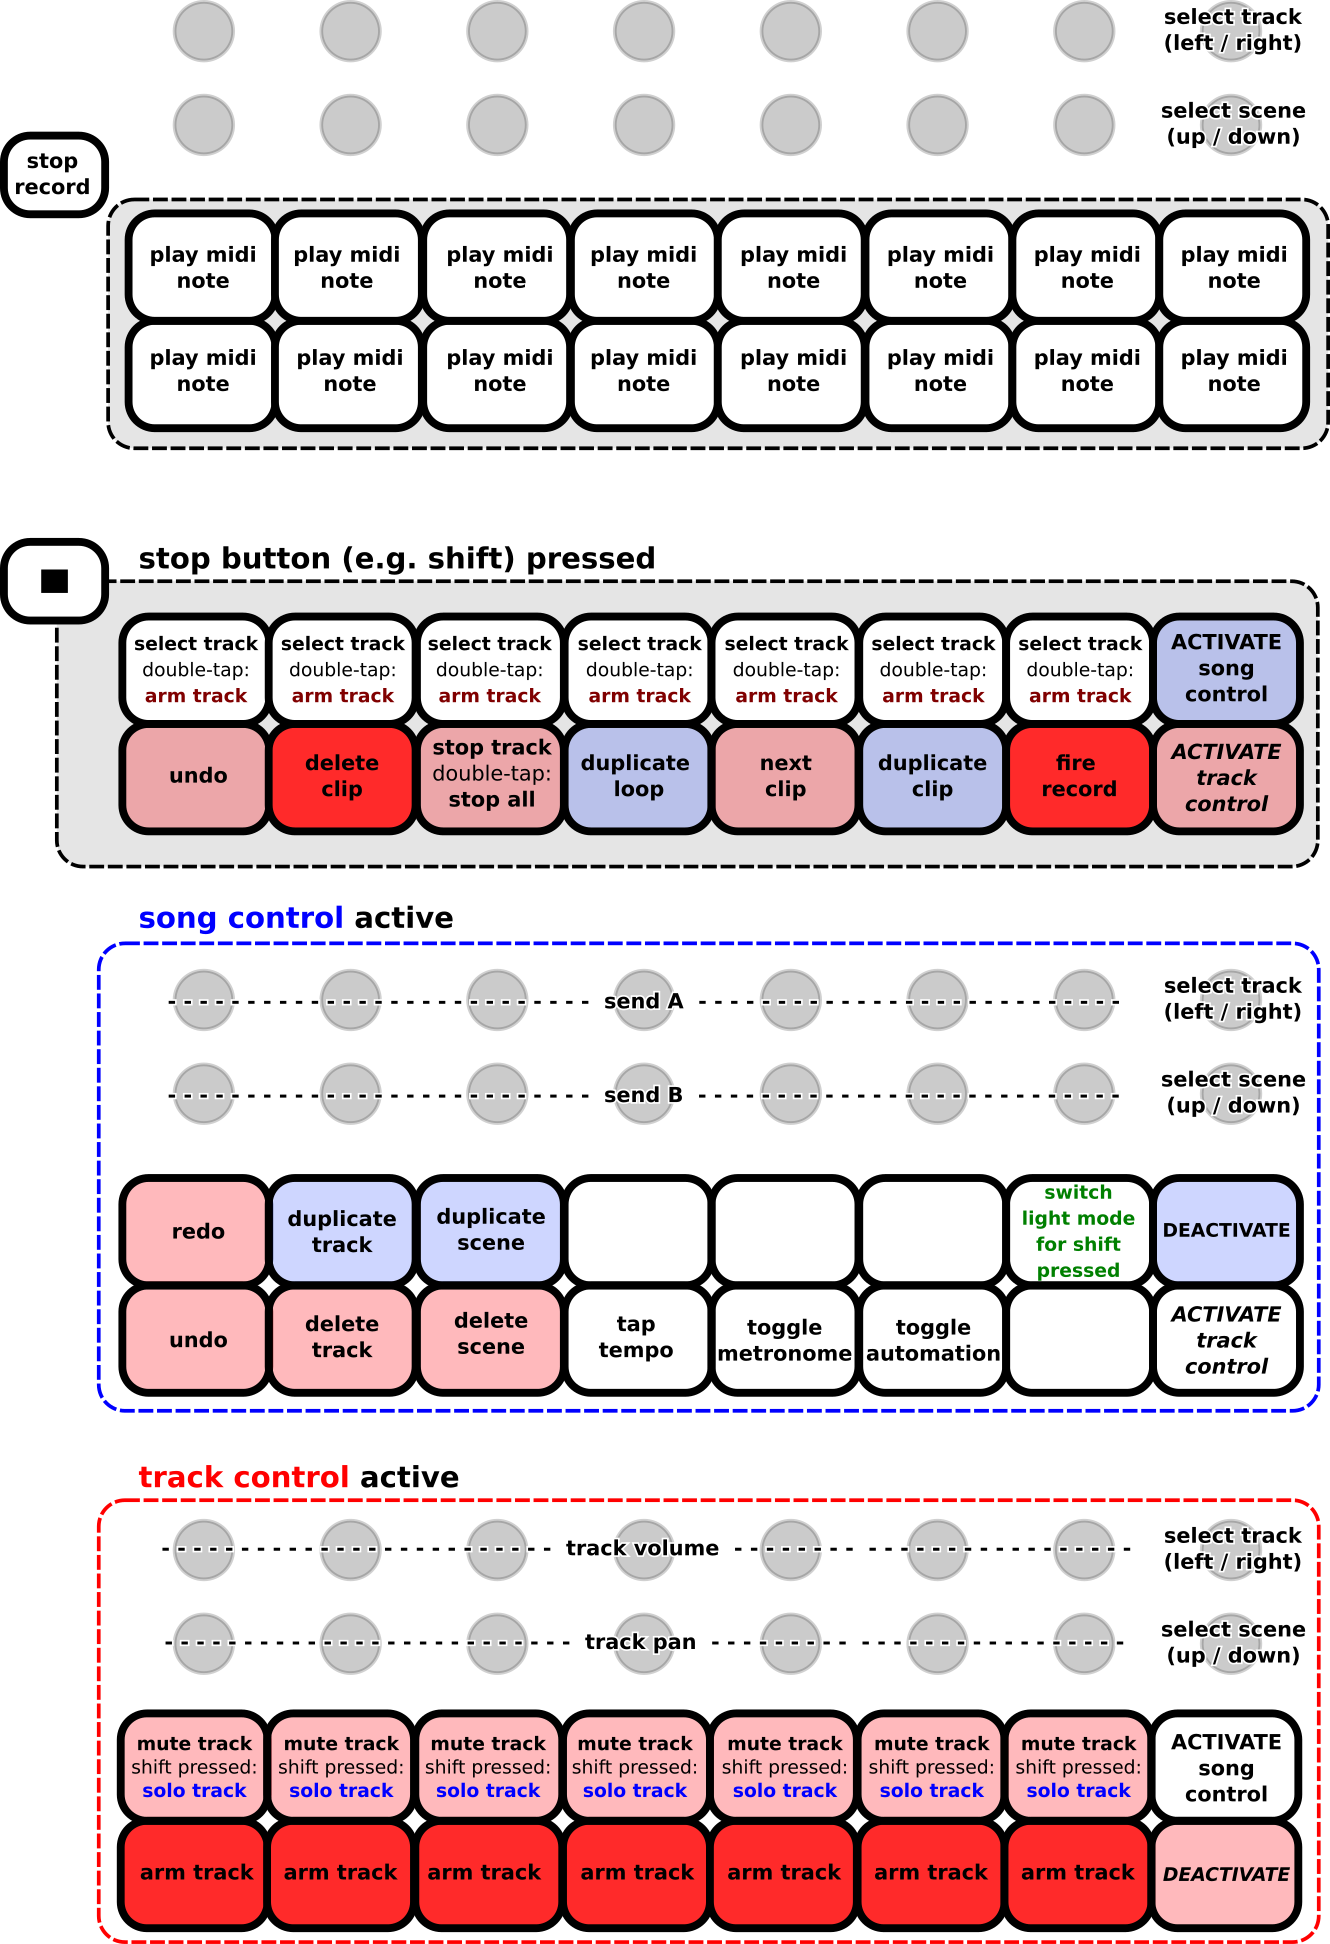
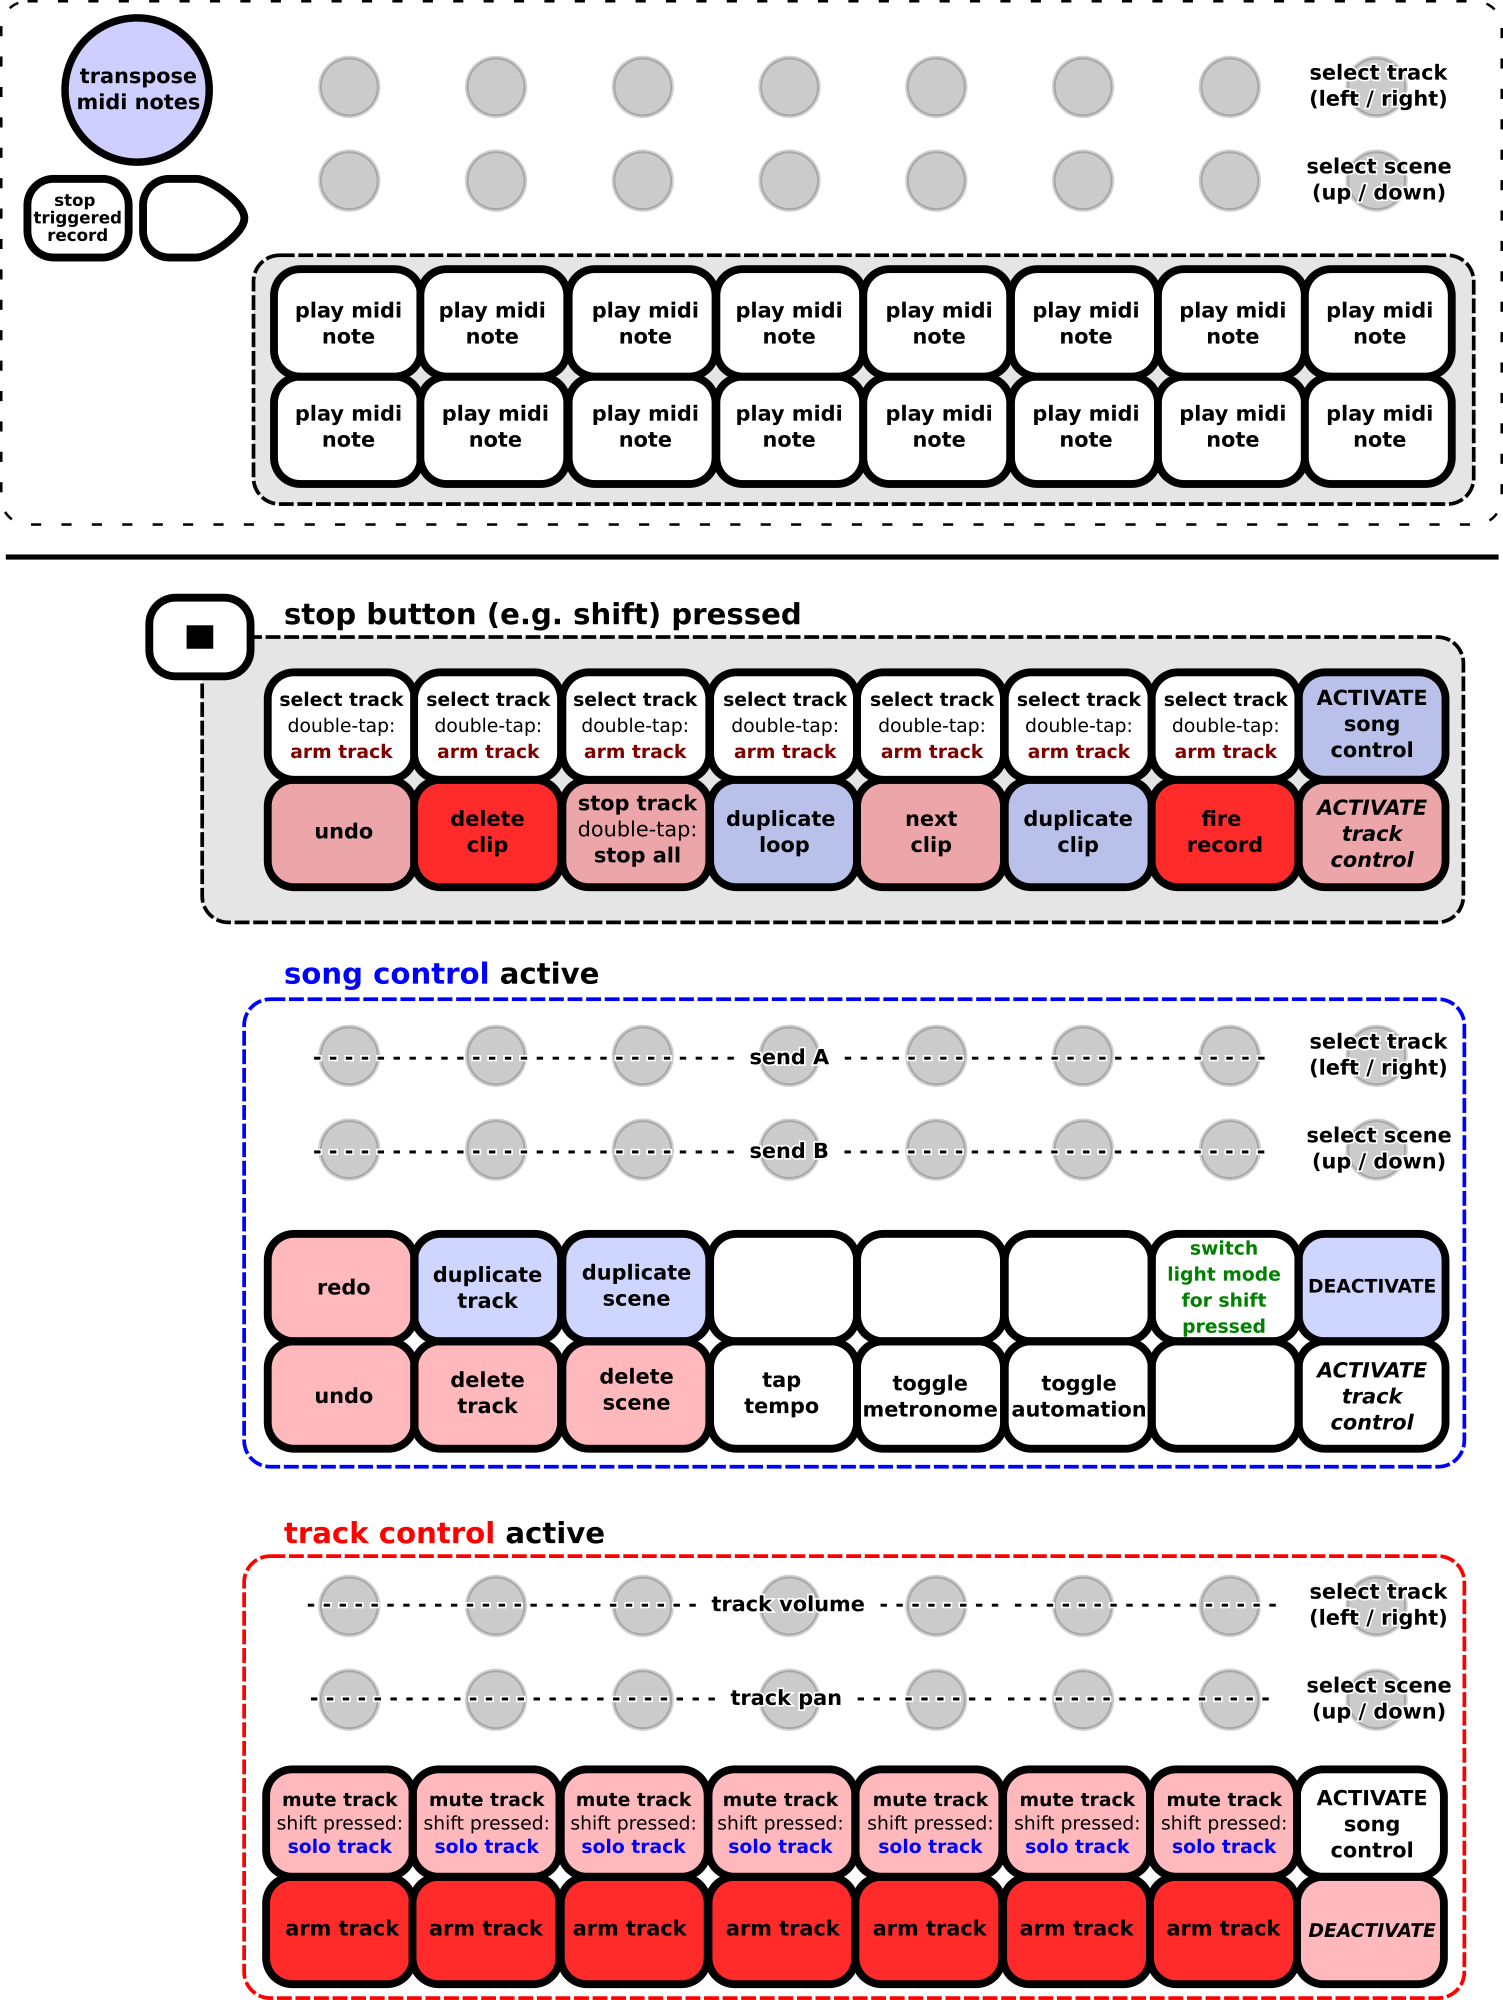
update readme to include transpose functionality

diff --git a/README.md b/README.md
@@ -35,7 +35,8 @@ To use this script, simply copy the contents into a folder named **"Beatstep_cus
 
 The stop-button serves as `shift-button` to activate the control-features.  
 `shift` + `button 8` and `shift` + `button 16` is used to activate different control-layers.   
-(the control-layers remain activated until the button is pressed again!)
+(the control-layers remain activated until the button is pressed again!)  
+The `transpose-slider` transposes the note-assignments of the buttons.
 
 ## Encoder:
 
